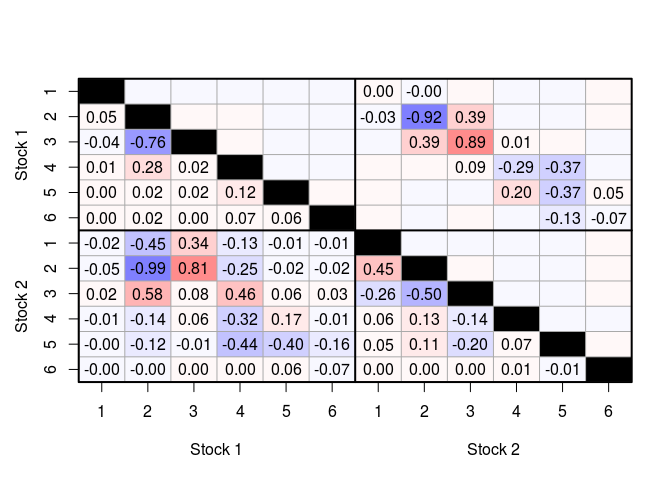
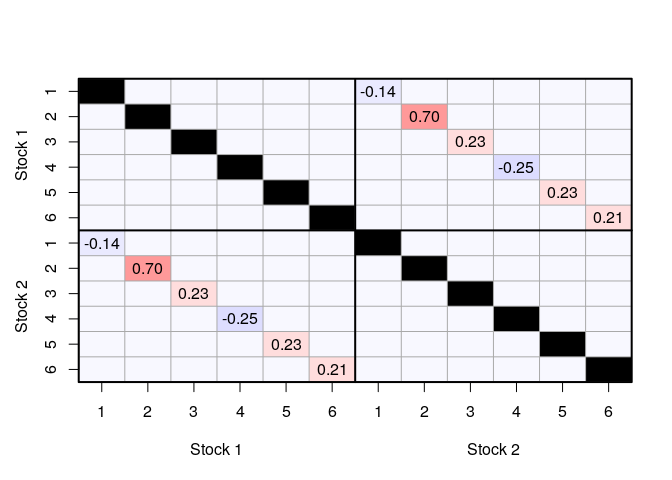
Update to readme and makefile

diff --git a/README.md b/README.md
@@ -56,34 +56,33 @@ indicating whether a correlation should be fixed at zero. The dimension
 of the matrix is the number of stocks times the number of ages in the
 data.
 
-For instance, `suggestCorStructure(fitSim,nAgeClose=2)` creates a matrix
-where ages less than 2 appart are correlated between the stocks.
-Likewise,
+For instance, `suggestCorStructure(fitSim,nAgeClose=1)` creates a matrix
+where ages less than 1 appart are correlated between the stocks:
 
 ``` r
-cs <- suggestCorStructure(fitSim,nAgeClose=2)
+cs <- suggestCorStructure(fitSim,nAgeClose=1)
 cs
 ```
 
     ##        [,1]  [,2]  [,3]  [,4]  [,5]  [,6]  [,7]  [,8]  [,9] [,10] [,11]
-    ##  [1,]  TRUE  TRUE  TRUE  TRUE  TRUE  TRUE FALSE FALSE  TRUE  TRUE  TRUE
-    ##  [2,]  TRUE  TRUE  TRUE  TRUE  TRUE  TRUE FALSE FALSE FALSE  TRUE  TRUE
-    ##  [3,]  TRUE  TRUE  TRUE  TRUE  TRUE  TRUE  TRUE FALSE FALSE FALSE  TRUE
-    ##  [4,]  TRUE  TRUE  TRUE  TRUE  TRUE  TRUE  TRUE  TRUE FALSE FALSE FALSE
-    ##  [5,]  TRUE  TRUE  TRUE  TRUE  TRUE  TRUE  TRUE  TRUE  TRUE FALSE FALSE
-    ##  [6,]  TRUE  TRUE  TRUE  TRUE  TRUE  TRUE  TRUE  TRUE  TRUE  TRUE FALSE
-    ##  [7,] FALSE FALSE  TRUE  TRUE  TRUE  TRUE  TRUE  TRUE  TRUE  TRUE  TRUE
-    ##  [8,] FALSE FALSE FALSE  TRUE  TRUE  TRUE  TRUE  TRUE  TRUE  TRUE  TRUE
-    ##  [9,]  TRUE FALSE FALSE FALSE  TRUE  TRUE  TRUE  TRUE  TRUE  TRUE  TRUE
-    ## [10,]  TRUE  TRUE FALSE FALSE FALSE  TRUE  TRUE  TRUE  TRUE  TRUE  TRUE
-    ## [11,]  TRUE  TRUE  TRUE FALSE FALSE FALSE  TRUE  TRUE  TRUE  TRUE  TRUE
-    ## [12,]  TRUE  TRUE  TRUE  TRUE FALSE FALSE  TRUE  TRUE  TRUE  TRUE  TRUE
+    ##  [1,]  TRUE  TRUE  TRUE  TRUE  TRUE  TRUE FALSE  TRUE  TRUE  TRUE  TRUE
+    ##  [2,]  TRUE  TRUE  TRUE  TRUE  TRUE  TRUE  TRUE FALSE  TRUE  TRUE  TRUE
+    ##  [3,]  TRUE  TRUE  TRUE  TRUE  TRUE  TRUE  TRUE  TRUE FALSE  TRUE  TRUE
+    ##  [4,]  TRUE  TRUE  TRUE  TRUE  TRUE  TRUE  TRUE  TRUE  TRUE FALSE  TRUE
+    ##  [5,]  TRUE  TRUE  TRUE  TRUE  TRUE  TRUE  TRUE  TRUE  TRUE  TRUE FALSE
+    ##  [6,]  TRUE  TRUE  TRUE  TRUE  TRUE  TRUE  TRUE  TRUE  TRUE  TRUE  TRUE
+    ##  [7,] FALSE  TRUE  TRUE  TRUE  TRUE  TRUE  TRUE  TRUE  TRUE  TRUE  TRUE
+    ##  [8,]  TRUE FALSE  TRUE  TRUE  TRUE  TRUE  TRUE  TRUE  TRUE  TRUE  TRUE
+    ##  [9,]  TRUE  TRUE FALSE  TRUE  TRUE  TRUE  TRUE  TRUE  TRUE  TRUE  TRUE
+    ## [10,]  TRUE  TRUE  TRUE FALSE  TRUE  TRUE  TRUE  TRUE  TRUE  TRUE  TRUE
+    ## [11,]  TRUE  TRUE  TRUE  TRUE FALSE  TRUE  TRUE  TRUE  TRUE  TRUE  TRUE
+    ## [12,]  TRUE  TRUE  TRUE  TRUE  TRUE FALSE  TRUE  TRUE  TRUE  TRUE  TRUE
     ##       [,12]
     ##  [1,]  TRUE
     ##  [2,]  TRUE
     ##  [3,]  TRUE
     ##  [4,]  TRUE
-    ##  [5,] FALSE
+    ##  [5,]  TRUE
     ##  [6,] FALSE
     ##  [7,]  TRUE
     ##  [8,]  TRUE
@@ -113,7 +112,7 @@ obj <- multisam.fit(fitSim,cs)
 obj
 ```
 
-    ## Multi-SAM model with 2 stocks: log likelihood is -259.3252. Convergence OK.
+    ## Multi-SAM model with 2 stocks: log likelihood is -253.2214. Convergence OK.
 
 ### Investigating the result
 
@@ -203,5 +202,5 @@ modeltable(obj,obj2)
 ```
 
     ##       log(L) #par      AIC Pval( M1 -> M2 )
-    ## M1 -259.3252   84 686.6504               NA
-    ## M2 -265.0501   68 666.1002        0.7809076
+    ## M1 -253.2214   74 654.4428               NA
+    ## M2 -255.0715   68 646.1429        0.7171872
